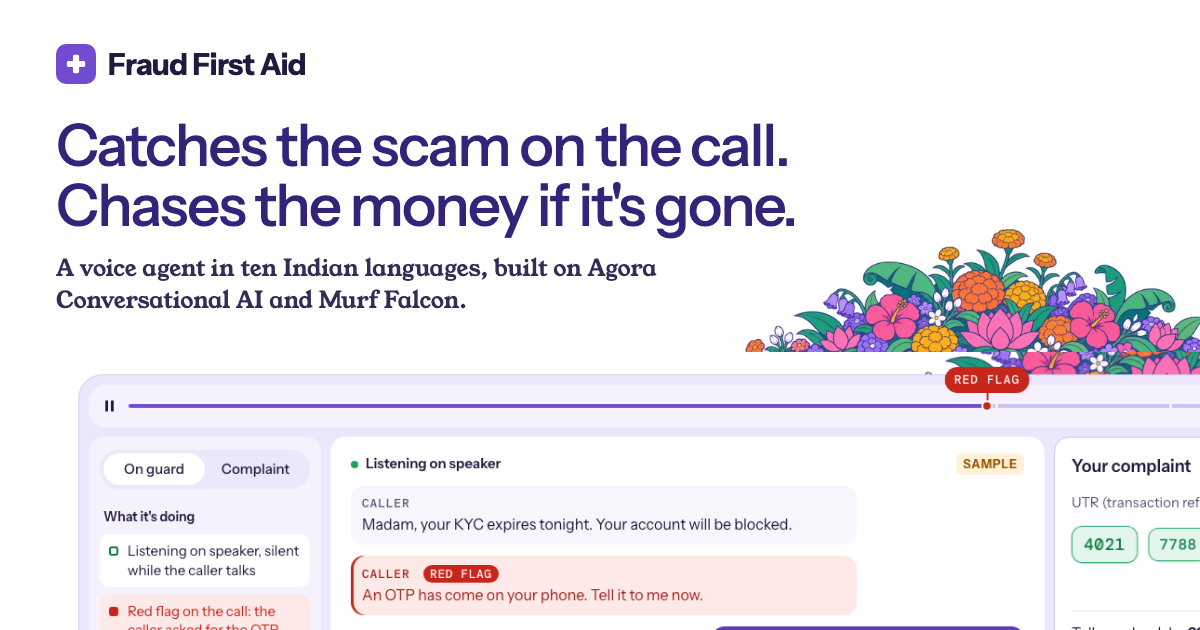
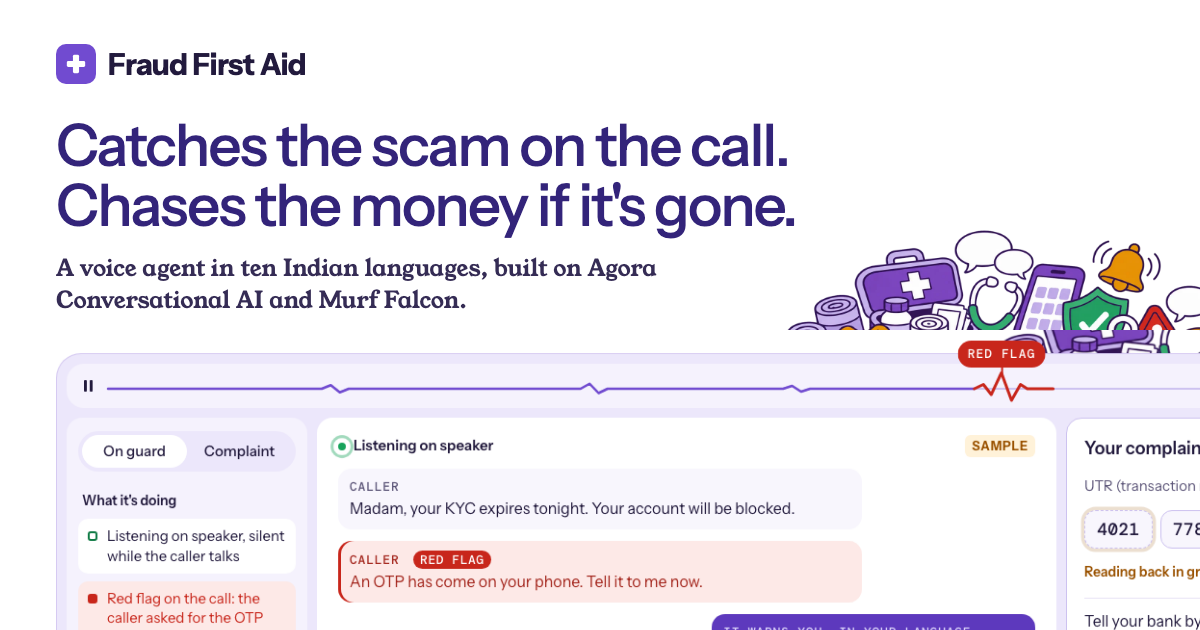
First-aid and UPI-fraud art instead of flowers (owner: 'ours is like first aid theme yk, and upi fraud'): our own flat illustration in Tines' hand of a first-aid box with a white plus, bandages, plasters, a stethoscope, a phone, a shield with a tick, a padlock, a bell, a warning triangle and coins, 

diff --git a/web/styles/design/tines.css b/web/styles/design/tines.css
@@ -1,7 +1,8 @@
 /* Fraud First Aid on Tines' system (tines.com, measured 20 Nov 2026, design/refs/tines): Roobert to
    Instrument Sans, Reckless to Young Serif, Roobert Mono to DM Mono; pill buttons and labels in mono
    caps; hairline cards with 14-16px corners and no shadows; the product shown in a lilac window with a
-   playback bar; flat Indian flowers (our own, drawn in Tines' hand). Colours are the owner's clearer
+   playback bar; a dense flat illustration of first-aid and UPI-safety things (our own, drawn in
+   Tines' hand, where Tines draws flowers). Colours are the owner's clearer
    set (theme.css): deep ink for text, purple for what the product does, red for the scam, green for
    confirmed, amber for checking and deadlines. */
 
@@ -79,7 +80,7 @@
 /* ===================================================================== */
 /* A: Tines (tines.com). Cream page, purple ink, Roobert -> Instrument Sans, */
 /* Reckless -> Young Serif, Roobert Mono -> DM Mono; hairline coloured cards */
-/* with 14px corners, no shadows; pill buttons in mono caps; flat flowers.  */
+/* with 14px corners, no shadows; pill buttons in mono caps; flat illustration. */
 /* ===================================================================== */
 
 .ta-nav {
@@ -298,13 +299,13 @@
   position: absolute;
   z-index: 0;
   pointer-events: none;
-  background: url('/design/bloom.webp') no-repeat center bottom / contain;
+  background: url('/design/aid.webp') no-repeat center bottom / contain;
 }
 .ta-bloom--r {
-  right: -110px;
-  top: -205px;
-  width: 600px;
-  height: 258px;
+  right: -100px;
+  top: -176px;
+  width: 560px;
+  height: 241px;
 }
 .ta-bloom--l {
   left: -64px;
@@ -345,36 +346,49 @@
 .ta-win__track {
   position: relative;
   flex: 1;
-  height: 4px;
-  border-radius: 999px;
-  background: repeating-linear-gradient(90deg, var(--rule-pill) 0 calc(16% - 3px), transparent calc(16% - 3px) 16%);
+  height: 30px;
 }
-.ta-win__played {
+.ta-ecg {
   position: absolute;
-  left: 0;
-  top: 0;
-  bottom: 0;
-  width: 79%;
-  border-radius: 999px;
-  background: var(--act);
-  transform-origin: left;
-  animation: ta-play 2s cubic-bezier(0.3, 0.6, 0.3, 1) 0.2s both;
+  inset: 0;
+  width: 100%;
+  height: 100%;
+  overflow: visible;
+  fill: none;
+  stroke-linecap: round;
+  stroke-linejoin: round;
+  vector-effect: non-scaling-stroke;
 }
-.ta-win__played::after {
-  content: '';
-  position: absolute;
-  right: -6px;
-  top: -4px;
-  width: 12px;
-  height: 12px;
-  border-radius: 50%;
-  background: var(--bad);
-  border: 2px solid var(--sheet);
+.ta-ecg path {
+  vector-effect: non-scaling-stroke;
+}
+.ta-ecg__base {
+  stroke: var(--rule-pill);
+  stroke-width: 2;
+}
+.ta-ecg__played {
+  stroke: var(--act);
+  stroke-width: 2.5;
+  stroke-dasharray: 1200;
+  stroke-dashoffset: 1200;
+  animation: ta-trace 2s cubic-bezier(0.3, 0.6, 0.3, 1) 0.2s forwards;
+}
+.ta-ecg__spike {
+  stroke: var(--bad);
+  stroke-width: 3;
+  stroke-dasharray: 200;
+  stroke-dashoffset: 200;
+  animation: ta-trace 0.45s ease-out 2.15s forwards;
+}
+@keyframes ta-trace {
+  to {
+    stroke-dashoffset: 0;
+  }
 }
 .ta-win__mark {
   position: absolute;
-  left: 79%;
-  bottom: 16px;
+  left: 79.4%;
+  bottom: calc(100% + 4px);
   transform: translateX(-50%);
   padding: 4px 10px;
   border-radius: 999px;
@@ -401,11 +415,6 @@
   font-family: var(--font-face-mono), ui-monospace, monospace;
   font-size: 0.875rem;
   color: var(--ink);
-}
-@keyframes ta-play {
-  from {
-    transform: scaleX(0.05);
-  }
 }
 @keyframes ta-pop {
   from {
@@ -617,7 +626,8 @@
 
 /* A, inside: the call screen as Tines' product window. A lilac frame holds white panes; the call
    panel is the light lilac sidebar; cards are white with a purple hairline and 16px corners;
-   labels and buttons in mono caps; Indian flowers spill along the bottom of the call panel. */
+   labels and buttons in mono caps; the first-aid and UPI-safety pile sits along the bottom of the
+   call panel. */
 .cs-side {
   --foreground: 257 40% 30%;
   --muted-foreground: 257 25% 42%;
@@ -636,7 +646,7 @@
   right: -20px;
   bottom: -6px;
   height: 120px;
-  background: url('/design/bloom.webp') no-repeat center bottom / 120% auto;
+  background: url('/design/aid.webp') no-repeat center bottom / 120% auto;
   pointer-events: none;
 }
 .cs-top {
@@ -730,8 +740,8 @@
 
 /* A, below the hero: our sections on Tines' own section patterns. The journey as outlined cards,
    one colour each (Build / Deploy / Operationalize); the reported cases as tinted cards with serif
-   text; the numbers on the lilac band with flowers along its edge; the 1930 comparison under a
-   centred serif statement with the number drawn in flowers. */
+   text; the numbers on the lilac band with the first-aid pile along its edge; the 1930 comparison
+   under a centred serif statement with the number filled with the same illustration. */
 .jr-grid {
   gap: 20px;
 }
@@ -830,7 +840,7 @@
   right: 0;
   bottom: -8px;
   height: 150px;
-  background: url('/design/bloom.webp') repeat-x center bottom / auto 150px;
+  background: url('/design/aid.webp') repeat-x center bottom / auto 150px;
   pointer-events: none;
 }
 .im .up-wrap {
@@ -863,9 +873,10 @@
   line-height: 0.85;
   letter-spacing: -0.04em;
   color: transparent;
-  background: url('/design/bloom.webp') repeat center 78% / auto 260%;
+  background: url('/design/aid.webp') repeat-x center 92% / auto 150%, var(--panel-2);
   -webkit-background-clip: text;
   background-clip: text;
+  -webkit-text-stroke: 3px var(--ink-display);
 }
 .cmp .up-h2 {
   max-width: 24ch;
@@ -1163,15 +1174,19 @@ html[data-motion='reduce'] *::after {
 /* ---------- reduced motion: the hero holds still ---------- */
 @media (prefers-reduced-motion: reduce) {
   .ta-langs__row,
-  .ta-win__played,
+  .ta-ecg__played,
+  .ta-ecg__spike,
   .ta-win__mark {
     animation: none !important;
+    stroke-dashoffset: 0 !important;
   }
 }
 html[data-motion='reduce'] .ta-langs__row,
-html[data-motion='reduce'] .ta-win__played,
+html[data-motion='reduce'] .ta-ecg__played,
+html[data-motion='reduce'] .ta-ecg__spike,
 html[data-motion='reduce'] .ta-win__mark {
   animation: none !important;
+  stroke-dashoffset: 0 !important;
 }
 
 

diff --git a/web/components/Hero.tsx b/web/components/Hero.tsx
@@ -1,7 +1,8 @@
 'use client';
 // The first screen, on Tines' system (tines.com): a two-part pill, the headline and serif lead, the
 // ten languages where Tines has its logo strip, two pill buttons, then the product in a lilac window
-// with a playback bar marking the red flag, and our own Indian flowers bursting from behind it.
+// with a playback bar marking the red flag, and our own first-aid and UPI-safety illustration
+// (in Tines' hand, where Tines draws flowers) bursting from behind it.
 // Every word comes from the design brief; the sample call is labelled as a sample.
 import { Logo } from './design/Logo';
 import {
@@ -115,7 +116,12 @@ export function Hero(p: StartProps) {
                 <i />
               </span>
               <span className="ta-win__track">
-                <span className="ta-win__played" />
+                {/* the call drawn as a heart-monitor line: flat while the caller talks, a red spike at the ask */}
+                <svg className="ta-ecg" viewBox="0 0 1000 40" preserveAspectRatio="none">
+                  <path className="ta-ecg__base" d="M0 24H190l8-5 8 10 8-5H420l8-7 8 13 8-6H600l8-4 8 8 8-4H1000" />
+                  <path className="ta-ecg__played" d="M0 24H190l8-5 8 10 8-5H420l8-7 8 13 8-6H600l8-4 8 8 8-4H770" />
+                  <path className="ta-ecg__spike" d="M770 24l8-6 7 14 9-30 9 38 8-22 6 6H840" />
+                </svg>
                 <span className="ta-win__mark">Red flag</span>
               </span>
               <span className="ta-win__time">0:15 / 0:19</span>

diff --git a/web/app/layout.tsx b/web/app/layout.tsx
@@ -46,7 +46,7 @@ export const metadata: Metadata = {
     title: "Fraud First Aid: catches the scam on the call, chases the money if it's gone",
     description: 'A voice agent in ten Indian languages, built on Agora Conversational AI and Murf Falcon.',
     url: 'https://fraudfirstaid.vercel.app',
-    images: [{ url: '/og.png', width: 1200, height: 630, alt: 'Fraud First Aid: the headline beside its product window, where a sample fake KYC call is marked with a red flag on its timeline and the complaint reads the UTR back in groups of four' }],
+    images: [{ url: '/og.png', width: 1200, height: 630, alt: 'Fraud First Aid: the headline above its product window, where a sample fake KYC call runs as a heart-monitor line that spikes red at the red flag, beside a first-aid kit, a phone and a shield' }],
     type: 'website',
   },
   twitter: { card: 'summary_large_image', images: ['/og.png'] },
